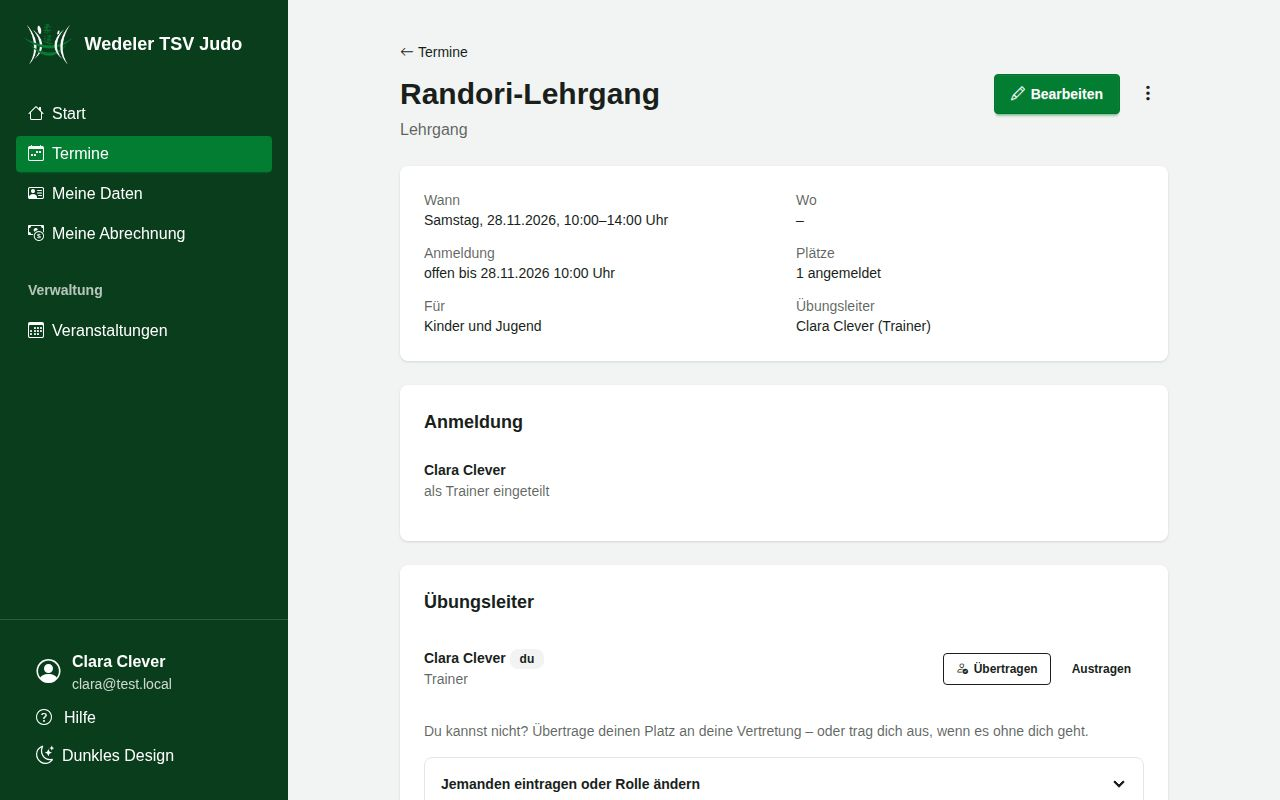
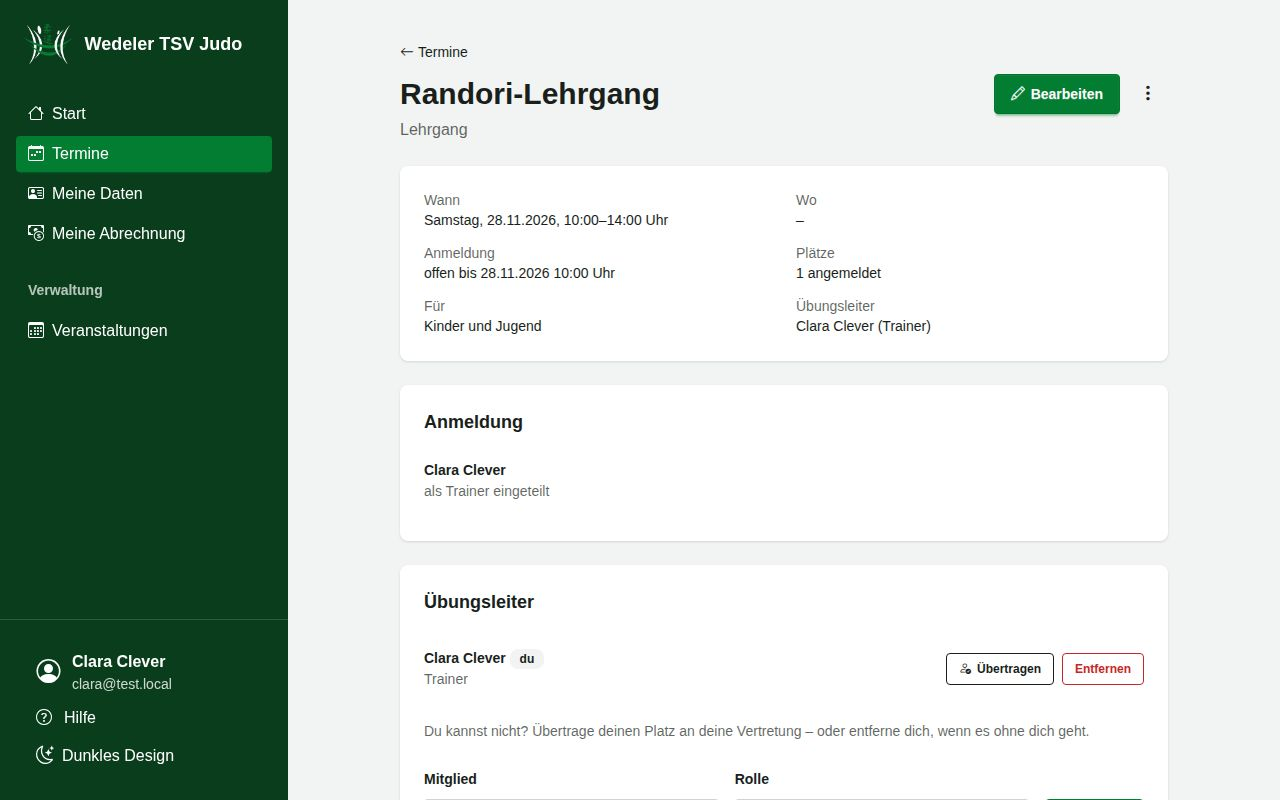
feat: Übungsleiter am Termin direkt eintragen, „Entfernen“ statt „Austragen“
Das Formular zum Eintragen steht ohne Klappbox im Abschnitt „Übungsleiter“, auf dem Desktop in
einer Zeile. Der Knopf „Austragen“ heißt „Entfernen“ und ist rot. Hilfe und Screenshots angepasst.

Claude-Session: https://claude.ai/code/session_017LHgXea5AxfRcr57bsDwjB

diff --git a/portal/events/templates/events/occurrence_detail.html b/portal/events/templates/events/occurrence_detail.html
@@ -55,7 +55,7 @@
         {% if row.can_take_over %}<form method="post" action="{% url 'occurrence_take_over' occurrence.pk p.pk %}">{% csrf_token %}<button class="btn btn-outline btn-primary btn-sm" aria-label="{{ p.member.display_name }} vertreten"><i class="bi bi-arrow-left-right" aria-hidden="true"></i> Vertreten</button></form>{% endif %}
         {% if row.can_change %}
         <a class="btn btn-outline btn-sm" href="{% url 'occurrence_hand_over' occurrence.pk p.pk %}" aria-label="{% if row.is_self %}Meinen Platz übertragen{% else %}Platz von {{ p.member.display_name }} übertragen{% endif %}"><i class="bi bi-person-check" aria-hidden="true"></i> Übertragen</a>
-        <form method="post" action="{% url 'occurrence_team_remove' occurrence.pk p.pk %}">{% csrf_token %}<button class="btn btn-ghost btn-sm" aria-label="{% if row.is_self %}Mich austragen{% else %}{{ p.member.display_name }} austragen{% endif %}">Austragen</button></form>
+        <form method="post" action="{% url 'occurrence_team_remove' occurrence.pk p.pk %}">{% csrf_token %}<button class="btn btn-outline btn-error btn-sm" aria-label="{% if row.is_self %}Mich entfernen{% else %}{{ p.member.display_name }} entfernen{% endif %}">Entfernen</button></form>
         {% endif %}
       </div>
       {% endif %}
@@ -63,17 +63,13 @@
     {% endwith %}{% endfor %}
   </ul>
   {% else %}<p class="text-base-content/70">Noch keine Übungsleiter eingeteilt.</p>{% endif %}
-  {% if own_team and not occurrence.is_cancelled %}<p class="text-sm text-base-content/70">{% if started %}Nicht dabei gewesen? Übertrage deinen Platz an die Vertretung oder trag dich aus.{% else %}Du kannst nicht? Übertrage deinen Platz an deine Vertretung – oder trag dich aus, wenn es ohne dich geht.{% endif %}</p>{% endif %}
+  {% if own_team and not occurrence.is_cancelled %}<p class="text-sm text-base-content/70">{% if started %}Nicht dabei gewesen? Übertrage deinen Platz an die Vertretung oder entferne dich.{% else %}Du kannst nicht? Übertrage deinen Platz an deine Vertretung – oder entferne dich, wenn es ohne dich geht.{% endif %}</p>{% endif %}
   {% if team_form %}
-  <details class="collapse collapse-arrow border border-base-300">
-    <summary class="collapse-title text-sm font-semibold">Jemanden eintragen oder Rolle ändern</summary>
-    <div class="collapse-content">
-      <form method="post" action="{% url 'occurrence_team' occurrence.pk %}" class="flex flex-col gap-4">{% csrf_token %}
-        <div class="grid gap-x-4 sm:grid-cols-2">{{ team_form }}</div>
-        <div><button class="btn btn-outline btn-primary btn-sm" type="submit">Eintragen</button></div>
-      </form>
-    </div>
-  </details>
+  <form method="post" action="{% url 'occurrence_team' occurrence.pk %}" class="flex flex-col gap-2 sm:flex-row sm:items-end sm:gap-4">{% csrf_token %}
+    {{ team_form.non_field_errors }}
+    {% for field in team_form %}<div class="sm:flex-1">{{ field.as_field_group }}</div>{% endfor %}
+    <div class="pt-2 sm:pt-0 sm:pb-1"><button class="btn btn-outline btn-primary" type="submit">Eintragen</button></div>
+  </form>
   {% elif self_roles %}
   <form method="post" action="{% url 'occurrence_team' occurrence.pk %}" class="flex flex-wrap gap-2">{% csrf_token %}
     {% for role in self_roles %}<button class="btn btn-outline btn-primary btn-sm" name="role" value="{{ role.pk }}"><i class="bi bi-plus-lg" aria-hidden="true"></i> Mich als {{ role.name }} eintragen</button>{% endfor %}

diff --git a/portal/help/templates/help/chapters/team.html b/portal/help/templates/help/chapters/team.html
@@ -10,11 +10,11 @@
 
 <h2 id="vertretung">Vertretung</h2>
 <p>Kannst du einmal nicht, sprecht euch kurz ab. Danach reicht ein Tipp im Abschnitt „Übungsleiter“ des Termins – egal wer von euch beiden ihn macht. Es gilt sofort.</p>
-{% screenshot "vertretung" "Übungsleiter eines Termins mit Übertragen, Austragen und Vertreten" %}
+{% screenshot "vertretung" "Übungsleiter eines Termins mit Übertragen, Entfernen und Vertreten" %}
 <ul>
   <li><strong>Übertragen</strong> (du gibst ab): Tippe in deiner Zeile auf <strong>Übertragen</strong>, wähle, wer übernimmt, und tippe auf <strong>Übertragen</strong>. Die Vertretung bekommt eine Push-Benachrichtigung, sonst eine Mail.</li>
   <li><strong>Vertreten</strong> (du übernimmst): Öffne den Termin, z. B. über den Link der anderen Person oder über <a href="{% url 'event_list' %}">Veranstaltungen</a>, und tippe in ihrer Zeile auf <strong>Vertreten</strong>. Du übernimmst ihre Rolle, sie bekommt eine Nachricht.</li>
-  <li><strong>Austragen</strong> (ohne Vertretung, z. B. als Co-Trainer): Tippe in deiner Zeile auf <strong>Austragen</strong>. Wäre danach kein Trainer mehr eingeteilt, fragt das Portal nach und gibt der Abteilungsleitung Bescheid; zwei Tage vor dem Termin erinnert es sie noch einmal, falls bis dahin niemand eingesprungen ist.</li>
+  <li><strong>Entfernen</strong> (ohne Vertretung, z. B. als Co-Trainer): Tippe in deiner Zeile auf <strong>Entfernen</strong>. Wäre danach kein Trainer mehr eingeteilt, fragt das Portal nach und gibt der Abteilungsleitung Bescheid; zwei Tage vor dem Termin erinnert es sie noch einmal, falls bis dahin niemand eingesprungen ist.</li>
 </ul>
 <p>Das geht auch nach dem Termin, solange die Stunden nicht eingereicht sind: Wer vertreten hat, bestätigt dann die Stunden (siehe <a href="{% url 'help_chapter' 'stunden' %}#nicht-dabei">Nicht dabei?</a>).</p>
 
@@ -27,5 +27,5 @@
   <li><strong>Ausnahme eintragen:</strong> Jemanden anmelden, der nicht zur Zielgruppe passt oder nach dem Anmeldeschluss kommt.</li>
   <li><strong>Außerhalb der Zielgruppe:</strong> Ist die Zielgruppe nur eine Empfehlung, kann sich jeder selbst anmelden. Gehört jemand nicht dazu, bekommst du eine Nachricht, und in der Teilnehmerliste steht „außerhalb der Zielgruppe“.</li>
   <li><strong>Gast eintragen:</strong> Bei Veranstaltungen mit Gästen trägst du Externe mit Name und Notfallkontakt ein. Sie bekommen eine Mail mit ihrem eigenen Link.</li>
-  <li><strong>Jemanden eintragen oder Rolle ändern:</strong> Weitere Übungsleiter eintragen (aufklappen im Abschnitt „Übungsleiter“).</li>
+  <li><strong>Übungsleiter eintragen:</strong> Im Abschnitt „Übungsleiter“ Mitglied und Rolle wählen und auf <strong>Eintragen</strong> tippen. Ist jemand schon eingetragen, ändert sich so seine Rolle.</li>
 </ul>

diff --git a/e2e/abrechnung.spec.ts b/e2e/abrechnung.spec.ts
@@ -85,14 +85,14 @@ test("Übungsleiterin bestätigt und reicht den Vormonat ein, die Abteilungsleit
   await expect(trainer.getByText("Danke, deine Stunden sind bestätigt.")).toBeVisible();
   await expect(trainer.getByRole("cell", { name: "22,50 €" }).first()).toBeVisible();
   await expectNoA11yViolations(trainer);
-  // Beim Zusatztraining war Dora nicht dabei: austragen
-  // „Nicht dabei?“ führt zum Termin; dort Übertragen oder Austragen (ADR 0018)
+  // Beim Zusatztraining war Dora nicht dabei: entfernen
+  // „Nicht dabei?“ führt zum Termin; dort Übertragen oder Entfernen (ADR 0018)
   await trainer.getByRole("link", { name: /Nicht dabei\? Zusatztraining/ }).click();
   await expect(trainer.getByRole("heading", { level: 1, name: "Zusatztraining" })).toBeVisible();
   await expect(trainer.getByRole("link", { name: "Meinen Platz übertragen" })).toBeVisible();
   await expect(trainer.getByRole("button", { name: "Hat nicht stattgefunden" })).toBeHidden(); // im Menü
   await expectNoA11yViolations(trainer);
-  await trainer.getByRole("button", { name: "Mich austragen" }).click();
+  await trainer.getByRole("button", { name: "Mich entfernen" }).click();
   await expect(trainer.getByText("Du bist als Trainer ausgetragen.")).toBeVisible();
   await trainer.goto("/abrechnung/");
   await trainer.getByRole("link", { name: month }).click();

diff --git a/portal/help/templates/help/chapters/stunden.html b/portal/help/templates/help/chapters/stunden.html
@@ -15,7 +15,7 @@
 <p>Lief es anders als geplant, tippe in der Erinnerung oder unter <a href="{% url 'billing_index' %}">Meine Abrechnung</a> auf <strong>Nicht dabei?</strong>. Das öffnet den Termin beim Abschnitt „Übungsleiter“:</p>
 <ul>
   <li><strong>Übertragen:</strong> Du wurdest vertreten. Wähle, wer übernommen hat; die Vertretung bekommt eine Push-Benachrichtigung, um ihre Stunden zu bestätigen. Hast du schon bestätigt, wird das zurückgenommen.</li>
-  <li><strong>Austragen:</strong> Du warst nicht dabei und niemand hat übernommen.</li>
+  <li><strong>Entfernen:</strong> Du warst nicht dabei und niemand hat übernommen.</li>
   <li><strong>Hat nicht stattgefunden:</strong> Über <strong><i class="bi bi-three-dots-vertical" aria-hidden="true"></i> Weitere Aktionen</strong>. Der Termin gilt als ausgefallen; Teilnehmer bekommen keine Nachricht mehr. Hat schon ein anderer Übungsleiter bestätigt, sprecht euch bitte vorher ab.</li>
 </ul>
 <p>Hat dich jemand vertreten und es noch nicht eingetragen, kann die Vertretung auch selbst am Termin auf <strong>Vertreten</strong> tippen.</p>

diff --git a/e2e/veranstaltungen.spec.ts b/e2e/veranstaltungen.spec.ts
@@ -76,7 +76,6 @@ test("Lehrgang anlegen, Übungsleiter eintragen, Kind mit Gewicht anmelden, Trai
   await admin.getByLabel("Ende", { exact: true }).fill(localDateTime(-1, "14:00"));
   await admin.getByRole("button", { name: "Speichern" }).click();
   await expect(admin.getByText("Termin angelegt. Trag hier die Übungsleiter ein.")).toBeVisible();
-  await admin.getByText("Jemanden eintragen oder Rolle ändern").click();
   await admin.getByLabel("Mitglied").selectOption({ label: "Clara Clever" });
   await admin.getByLabel("Rolle").selectOption({ label: "Trainer" });
   await admin.getByRole("button", { name: "Eintragen", exact: true }).click();
